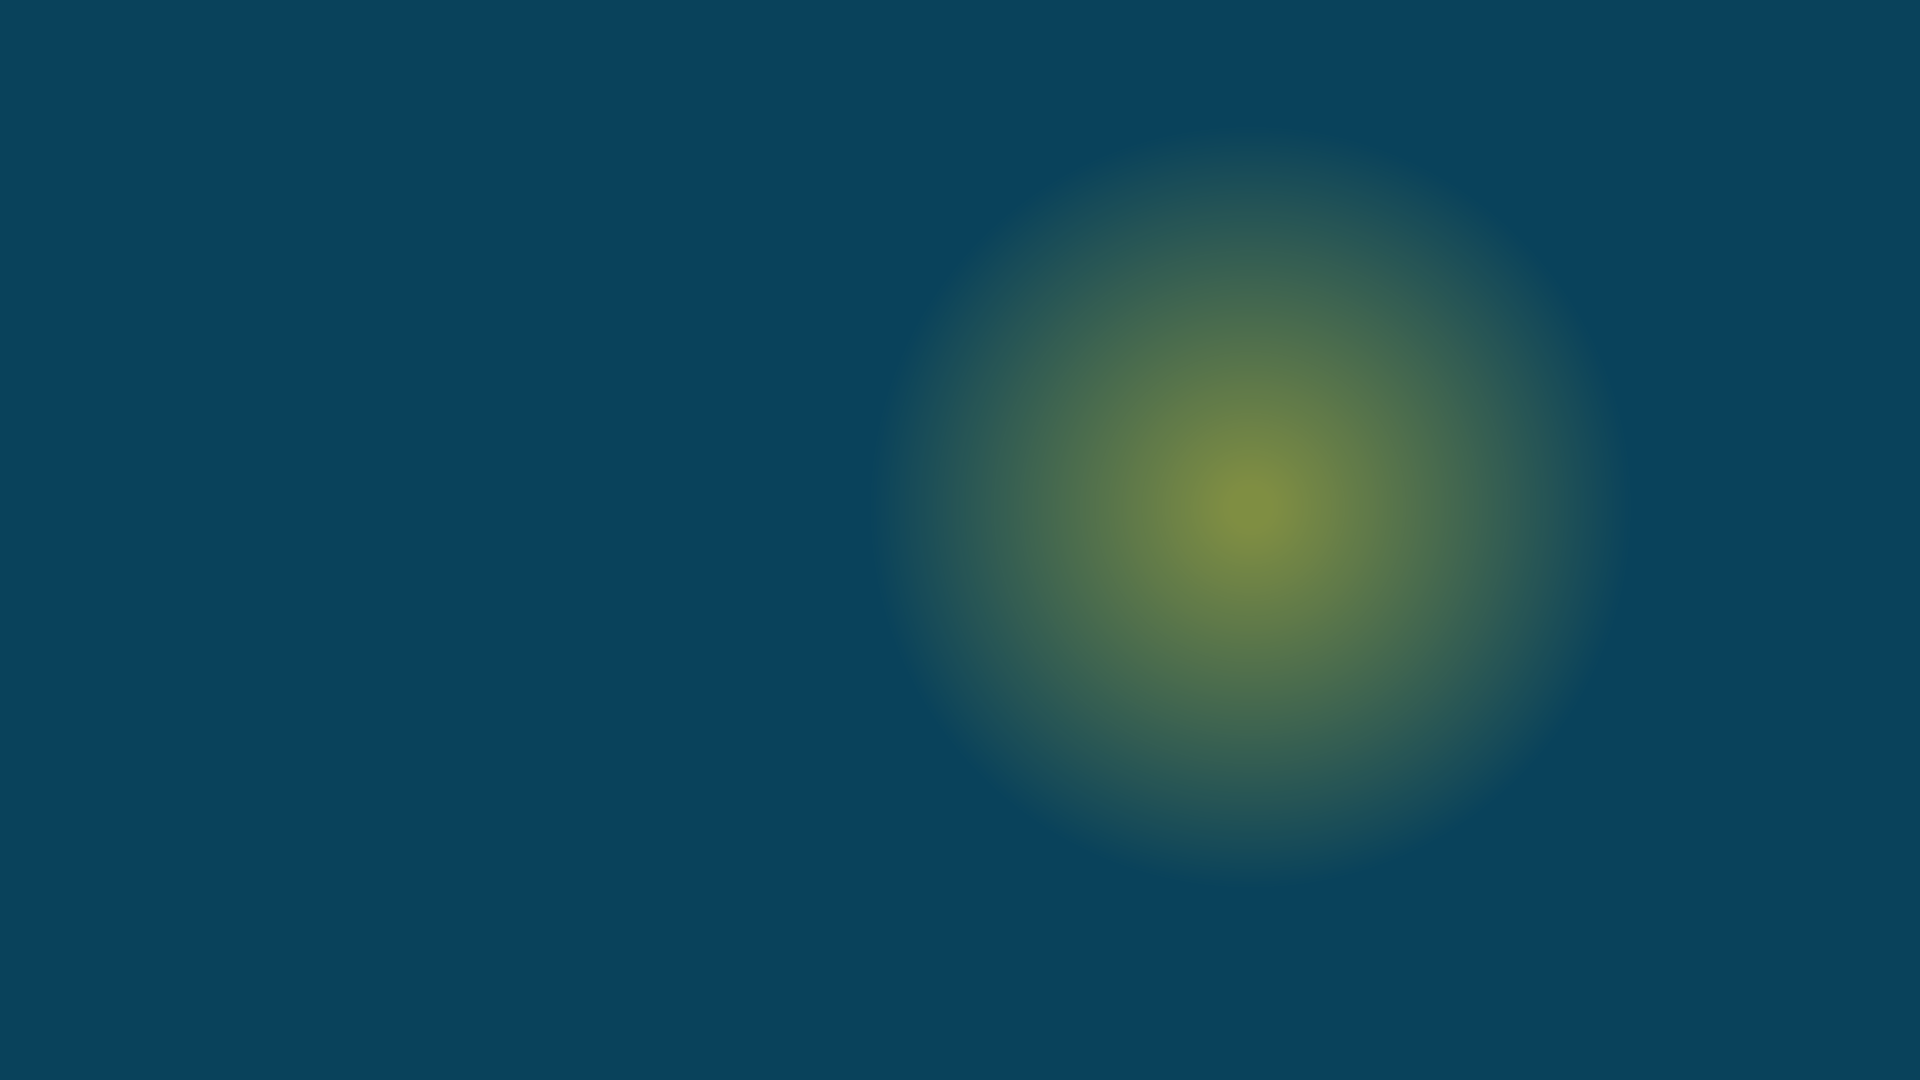
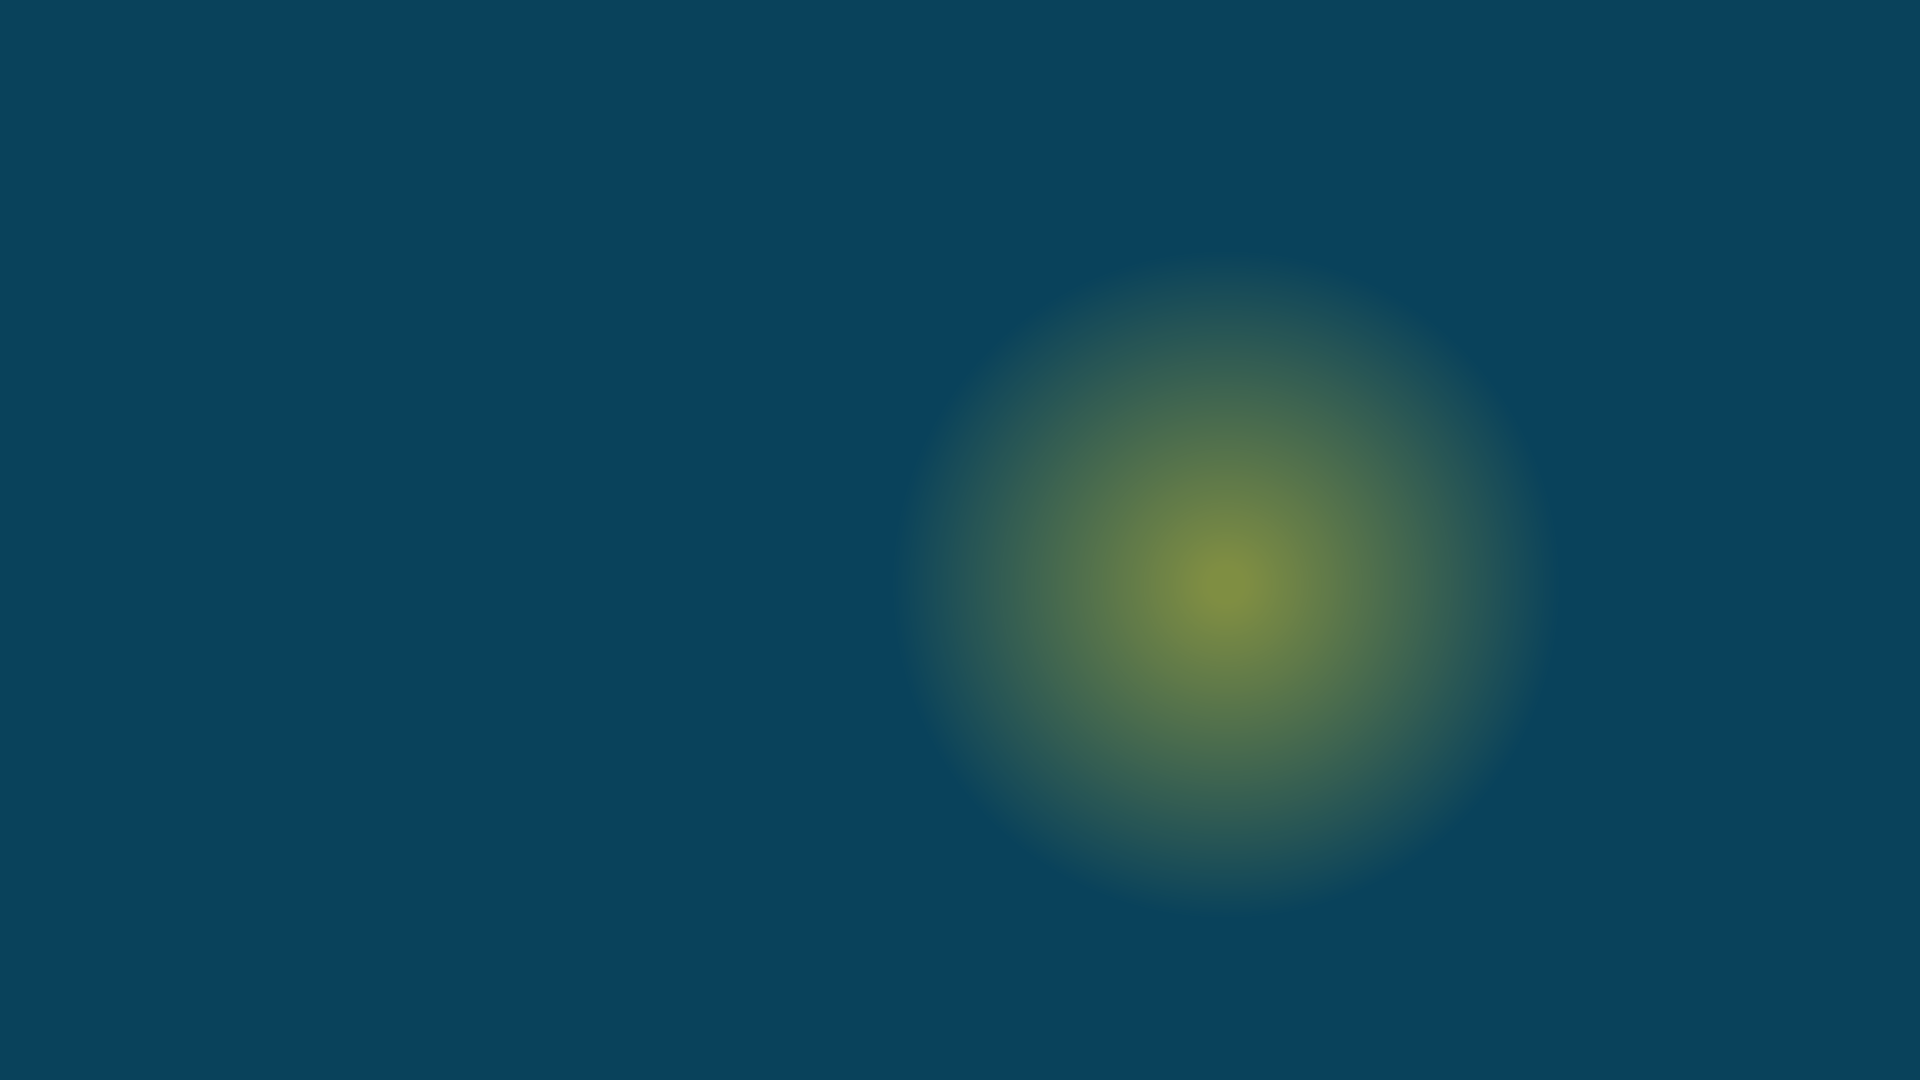
user_appointment

Changed region(s): [[0.5, 0.1833, 0.8125, 0.4889], [0.625, 0.55, 0.6562, 0.5806]]

diff --git a/css/user_appointment.css b/css/user_appointment.css
@@ -1,7 +1,7 @@
 
 
 body {
-    background: url('../img/appointmentbg5.png') no-repeat center center fixed; 
+    background: url('../img/appointmentbg.png') no-repeat center center fixed; 
     display: flex;
     align-items: center;
     padding: 0 10px;
